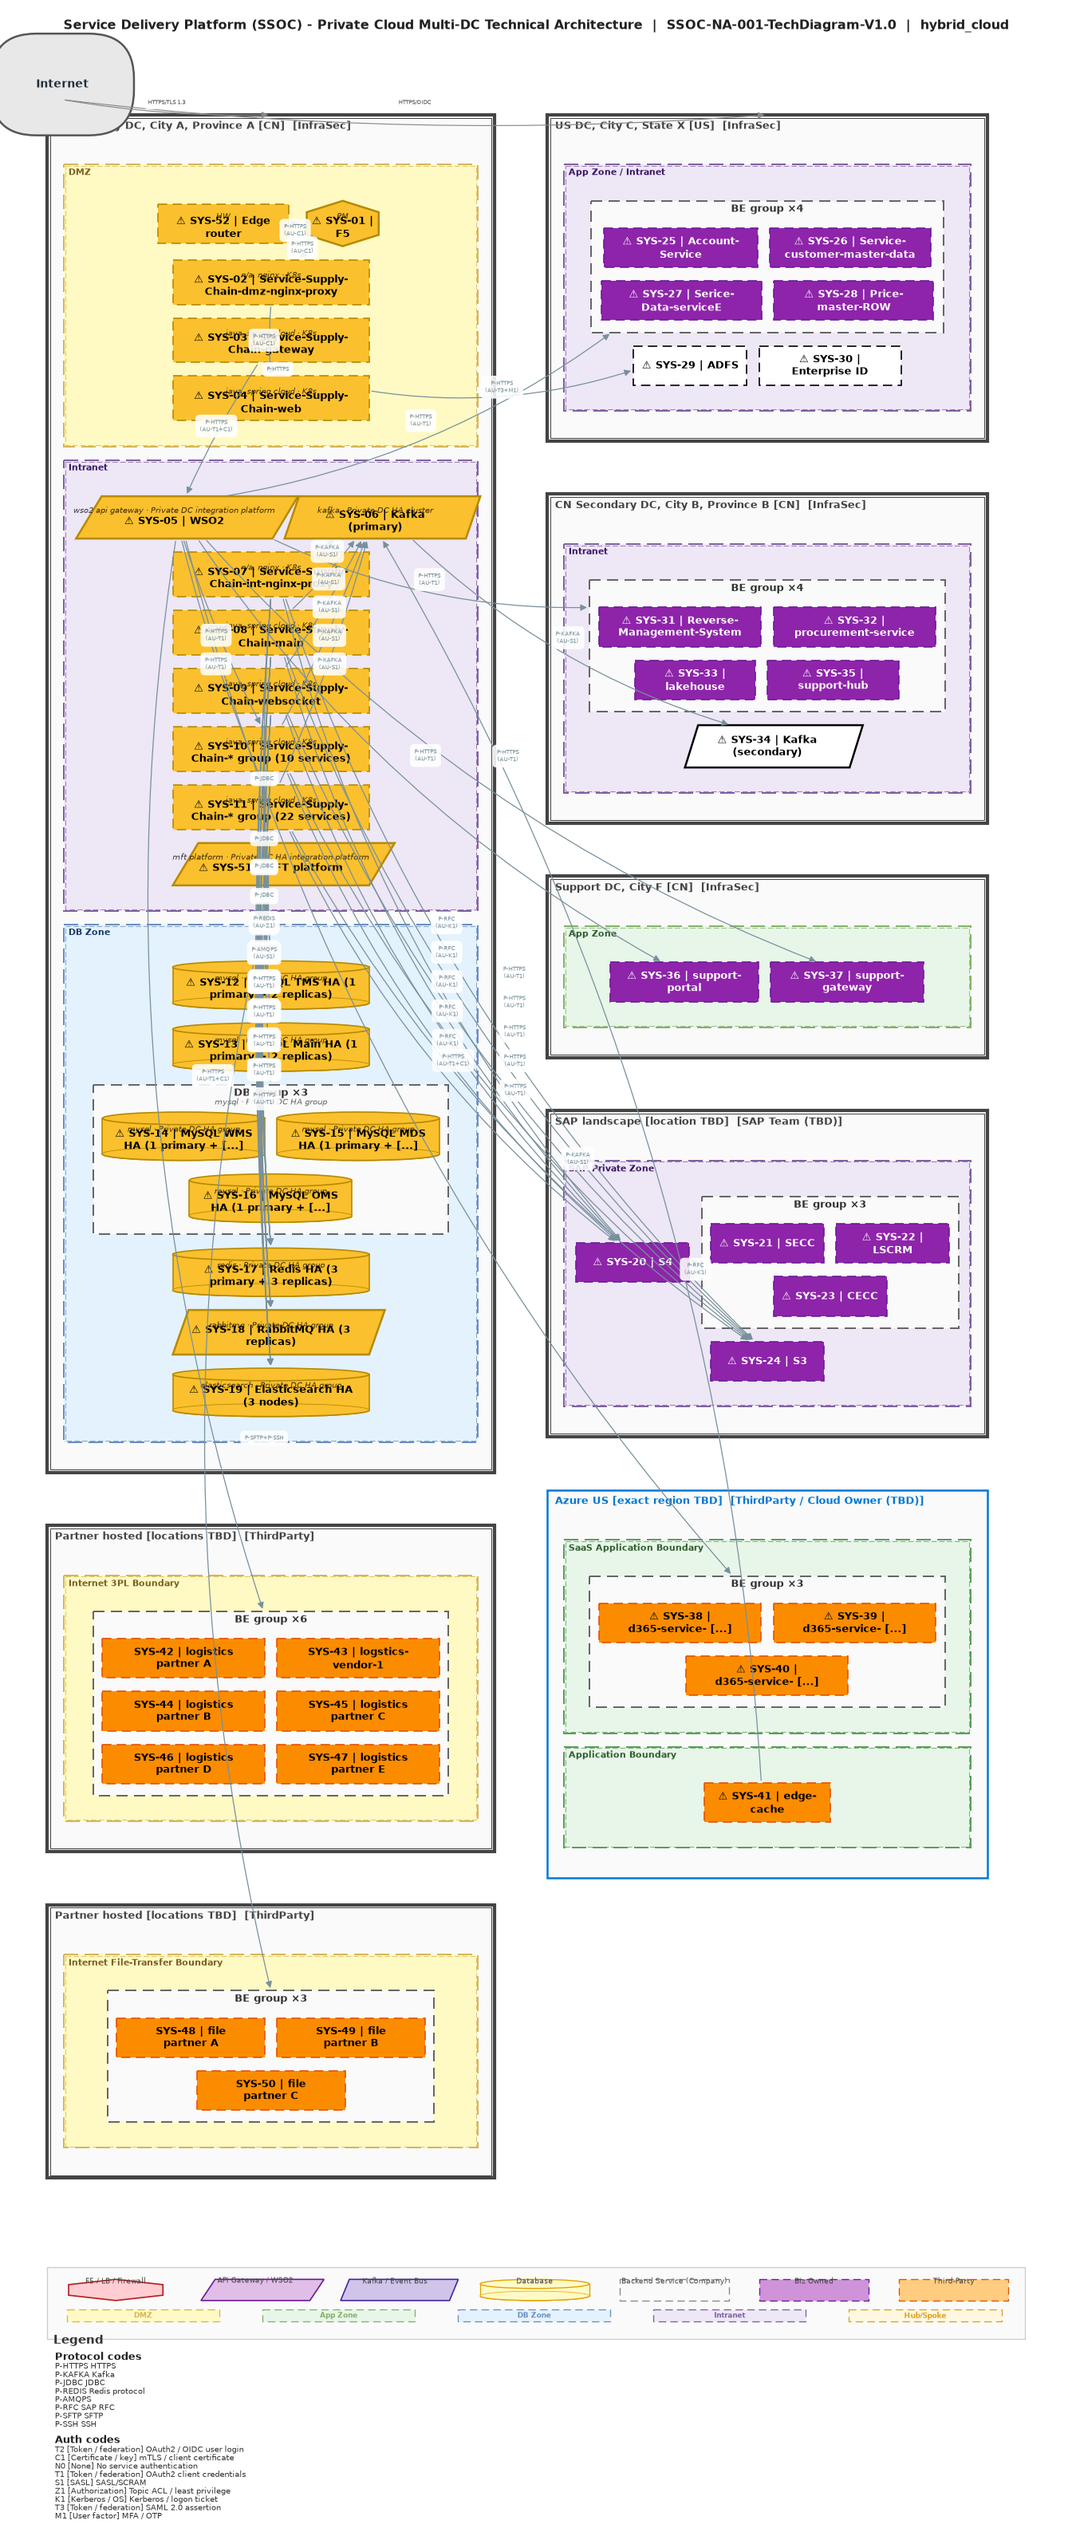
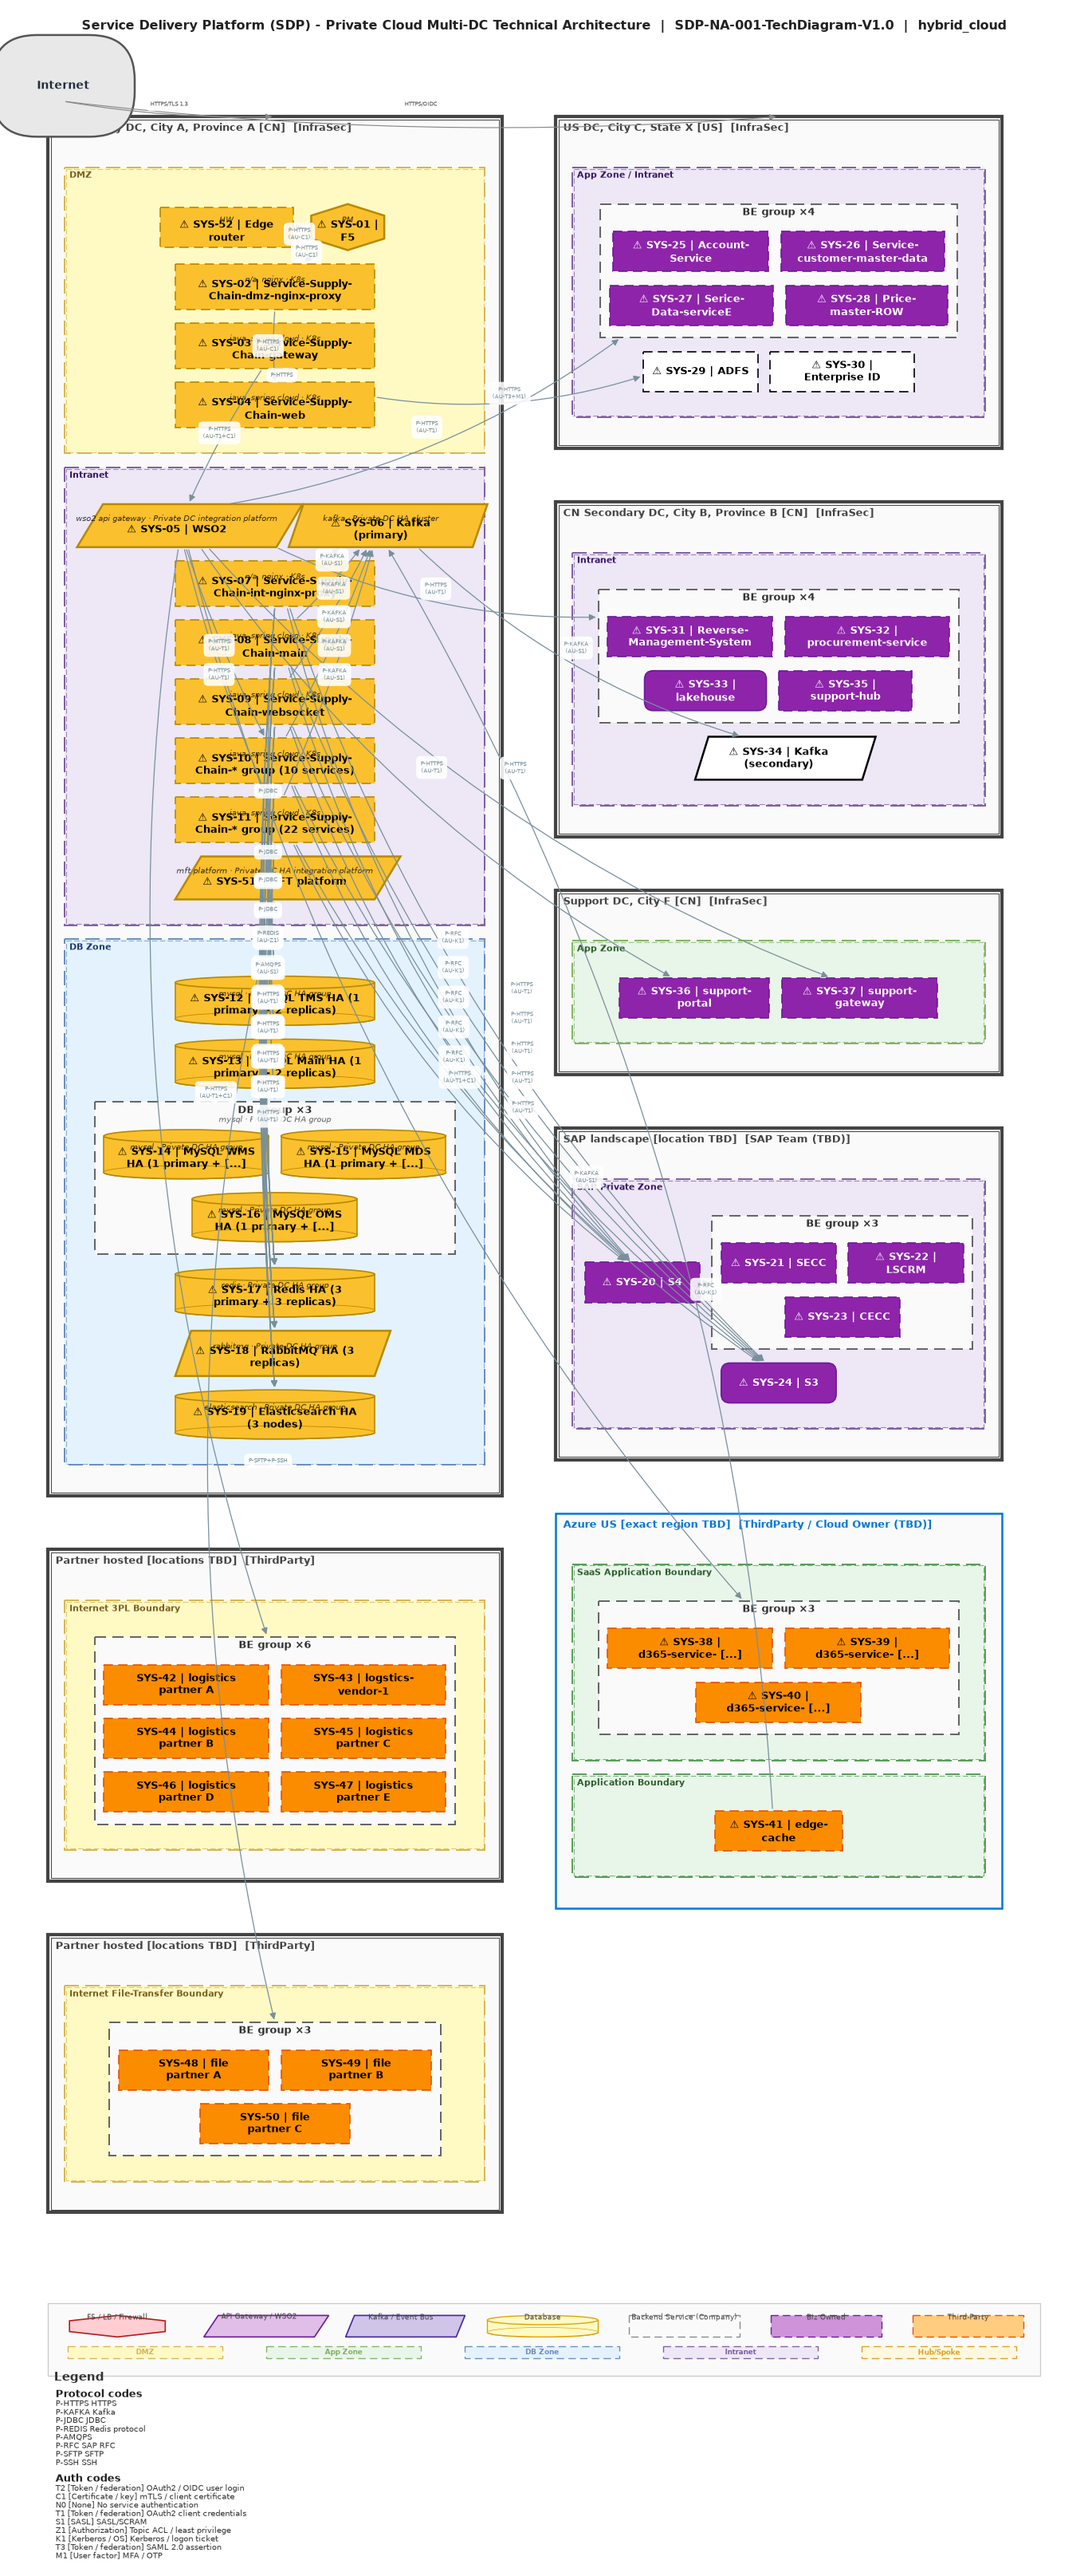
chore: rename the example 04 platform acronym to SDP
SSOC is an internal platform codename; it becomes SDP in every derived file,
including the recorded artifact ids, and the regenerated artwork.

diff --git a/examples/04-service-delivery-private-cloud/output/requirements/REQ.md b/examples/04-service-delivery-private-cloud/output/requirements/REQ.md
@@ -1,11 +1,11 @@
-# Requirements Document - Service Delivery Platform (SSOC), NA Migration
+# Requirements Document - Service Delivery Platform (SDP), NA Migration
 **Version**: 1.0 Draft | **Date**: 2026-09-14 | **Author**: ArchHarness
-**Project ID**: SSOC-NA-001 | **Classification**: Acme Confidential
-**Scope**: E2E modification. SSOC is the modified platform; connected enterprise, SaaS, identity, and partner systems are existing black boxes whose integration boundaries are in scope.
+**Project ID**: SDP-NA-001 | **Classification**: Acme Confidential
+**Scope**: E2E modification. SDP is the modified platform; connected enterprise, SaaS, identity, and partner systems are existing black boxes whose integration boundaries are in scope.
 
 ## 1. Project Overview
 
-SSOC is the service supply-chain operations platform, comprising approximately 40 Java and Spring Cloud microservices. The program extends the existing platform to serve North America while retaining the primary deployment in the CN primary data center and integrating four private data centers, Azure-hosted satellite systems, SAP, and external logistics partners.
+SDP is the service supply-chain operations platform, comprising approximately 40 Java and Spring Cloud microservices. The program extends the existing platform to serve North America while retaining the primary deployment in the CN primary data center and integrating four private data centers, Azure-hosted satellite systems, SAP, and external logistics partners.
 
 All names below are the stable document names defined by `input/systems-registry.md`. The corresponding `SYS-nn` identifiers remain authoritative.
 
@@ -13,9 +13,9 @@ All names below are the stable document names defined by `input/systems-registry
 
 | App | Type | New/Existing | Owner | Scope |
 |-----|------|--------------|-------|-------|
-| SYS-01 F5; SYS-02 Service-Supply-Chain-dmz-nginx-proxy; SYS-03 Service-Supply-Chain-gateway; SYS-04 Service-Supply-Chain-web | SSOC ingress and DMZ tier | Modified | InfraSec / TBD business owner | Full deployment and integration boundary |
-| SYS-05 WSO2; SYS-06 Kafka (primary); SYS-07 Service-Supply-Chain-int-nginx-proxy; SYS-08 Service-Supply-Chain-main; SYS-09 Service-Supply-Chain-websocket; SYS-10 Service-Supply-Chain-* group (10 services); SYS-11 Service-Supply-Chain-* group (22 services) | SSOC integration and application tier | Modified | InfraSec / TBD business owner | Full deployment and integration boundary |
-| SYS-12 MySQL TMS; SYS-13 MySQL Main; SYS-14 MySQL WMS; SYS-15 MySQL MDS; SYS-16 MySQL OMS; SYS-17 Redis HA; SYS-18 RabbitMQ HA; SYS-19 Elasticsearch HA | SSOC persistence tier | Modified | InfraSec / TBD business owner | Full deployment and integration boundary |
+| SYS-01 F5; SYS-02 Service-Supply-Chain-dmz-nginx-proxy; SYS-03 Service-Supply-Chain-gateway; SYS-04 Service-Supply-Chain-web | SDP ingress and DMZ tier | Modified | InfraSec / TBD business owner | Full deployment and integration boundary |
+| SYS-05 WSO2; SYS-06 Kafka (primary); SYS-07 Service-Supply-Chain-int-nginx-proxy; SYS-08 Service-Supply-Chain-main; SYS-09 Service-Supply-Chain-websocket; SYS-10 Service-Supply-Chain-* group (10 services); SYS-11 Service-Supply-Chain-* group (22 services) | SDP integration and application tier | Modified | InfraSec / TBD business owner | Full deployment and integration boundary |
+| SYS-12 MySQL TMS; SYS-13 MySQL Main; SYS-14 MySQL WMS; SYS-15 MySQL MDS; SYS-16 MySQL OMS; SYS-17 Redis HA; SYS-18 RabbitMQ HA; SYS-19 Elasticsearch HA | SDP persistence tier | Modified | InfraSec / TBD business owner | Full deployment and integration boundary |
 | SYS-20 S4; SYS-21 SECC; SYS-22 LSCRM; SYS-23 CECC; SYS-24 S3 | SAP landscape | Existing | TBD | Black-box boundary only |
 | SYS-25 Account-Service; SYS-26 Service-customer-master-data; SYS-27 Serice-Data-serviceE; SYS-28 Price-master-ROW | US satellite applications | Existing | TBD | Black-box boundary only |
 | SYS-29 ADFS; SYS-30 Enterprise ID | Identity services | Existing | InfraSec / TBD | Authentication boundary only |
@@ -172,12 +172,12 @@ SYS-10 members are `rms`, `tms`, `oms`, `wms`, `mds`, `ips`, `autopilot`, `ves`,
 
 ## 11. Architecture Constraints
 
-- Private cloud is mandatory for the SSOC platform; Azure systems are existing satellites only.
-- The primary SSOC deployment remains in the CN Primary DC using separate DMZ, Intranet, and DB zones.
+- Private cloud is mandatory for the SDP platform; Azure systems are existing satellites only.
+- The primary SDP deployment remains in the CN Primary DC using separate DMZ, Intranet, and DB zones.
 - All cross-application API traffic must traverse SYS-05 WSO2; event traffic must traverse SYS-06 Kafka. Direct application-to-application connections are prohibited.
 - Managed partner file transfer must traverse SYS-51 MFT platform.
 - SAP SYS-20 through SYS-23 may be reached only by RFC from the Intranet zone and must not be exposed to the DMZ.
-- The DB Zone is reachable only from SSOC Intranet services, and each persistence service uses the stated HA topology.
+- The DB Zone is reachable only from SDP Intranet services, and each persistence service uses the stated HA topology.
 - External 3PL and file-transfer traffic must terminate at SYS-01 in the DMZ and must never connect directly to the Intranet.
 - TLS 1.2 or later is required for all applicable traffic. Equivalent encrypted transport must be defined for non-TLS protocols.
 - Credentials must not be hardcoded. Workload database credentials are stored in Kubernetes Secrets.

diff --git a/examples/README.md b/examples/README.md
@@ -35,7 +35,7 @@ Every file outside `systems-registry.md` — including `README.md` and
 | 01 | `01-ecommerce-azure` | E-commerce platform network | Azure multi-region Hub-Spoke + ExpressRoute | req/v1 — rebuild pending (source diagram quality is poor) |
 | 02 | `02-ai-agent-hybrid` | Data Agent platform (GDA) | Private DC + Azure hybrid | req/v1 — rebuild pending |
 | 03 | `03-order-query-aws-hybrid` | Order query over EDW data | AWS VPC (3-tier) + 4 private DCs | req/v1 — rebuild pending |
-| 04 | `04-service-delivery-private-cloud` | Service delivery platform (SSOC) | Private cloud, 4 DCs + Azure | req/v1 — rebuild pending |
+| 04 | `04-service-delivery-private-cloud` | Service delivery platform (SDP) | Private cloud, 4 DCs + Azure | req/v1 — rebuild pending |
 | 05 | `05-supply-chain-order-private-cloud` | Supply-chain order platform (OSP) | Private cloud active-active CN+NA | req/v2 authored — diagram pending |
 | 06 | `06-factory-mes-industrial` | **Factory MES (PlantMES)** | Plant edge + central DCs | **req/v2 complete — worked reference** |
 | 07 | `07-finance-core-banking` | Core banking / payments | Private cloud, two-site-three-center | input pending |

diff --git a/examples/04-service-delivery-private-cloud/output/validation/validation-report.md b/examples/04-service-delivery-private-cloud/output/validation/validation-report.md
@@ -4,7 +4,7 @@
 
 | Field | Value |
 |---|---:|
-| Project | Service Delivery Platform (SSOC) |
+| Project | Service Delivery Platform (SDP) |
 | Platform detected | Mixed: private cloud with Azure satellites |
 | Score | **4.32 / 10.00** |
 | Must fix | **22** |
@@ -85,7 +85,7 @@ The main web path follows `Internet -> SYS-52 -> SYS-01 F5 -> SYS-02`, and SYS-0
 
 ### Mediation And Boundaries
 
-WSO2, Kafka, and MFT platform are independent nodes in the CN primary Intranet. Most remote APIs and files use those mediators. The ten direct SSOC-to-SAP flows bypass mediation, while SAP and both 3PL boundary locations remain TBD. The 3PL paths are outbound from WSO2; required inbound termination at F5 is not demonstrated.
+WSO2, Kafka, and MFT platform are independent nodes in the CN primary Intranet. Most remote APIs and files use those mediators. The ten direct SDP-to-SAP flows bypass mediation, while SAP and both 3PL boundary locations remain TBD. The 3PL paths are outbound from WSO2; required inbound termination at F5 is not demonstrated.
 
 ### Authentication And Secrets
 

diff --git a/examples/04-service-delivery-private-cloud/input/documents/requirements.md b/examples/04-service-delivery-private-cloud/input/documents/requirements.md
@@ -1,5 +1,5 @@
-# Requirements Document — Service Delivery Platform (SSOC, NA Migration)
-**Version**: 1.0  |  **Project ID**: SSOC-NA-001  |  **Classification**: Acme Confidential
+# Requirements Document — Service Delivery Platform (SDP, NA Migration)
+**Version**: 1.0  |  **Project ID**: SDP-NA-001  |  **Classification**: Acme Confidential
 
 > System codes SYS-01..SYS-52 resolve via `input/systems-registry.md`.
 
@@ -9,7 +9,7 @@
 
 ## 1. Project Overview
 
-SSOC is the service supply-chain operations platform (~40 Java/SpringCloud
+SDP is the service supply-chain operations platform (~40 Java/SpringCloud
 microservices). This program migrates/extends it to serve NA while keeping
 the primary deployment in the CN primary DC. The platform integrates with
 SAP, three satellite DCs, Azure-hosted systems, and external 3PL partners.

diff --git a/examples/04-service-delivery-private-cloud/README.md b/examples/04-service-delivery-private-cloud/README.md
@@ -1,4 +1,4 @@
-# Example 4 — Service Delivery Platform (SSOC): Private Cloud Multi-DC
+# Example 4 — Service Delivery Platform (SDP): Private Cloud Multi-DC
 
 Reverse-engineered from a real service-delivery architecture diagram
 (restricted and intentionally not scrubbed). The most complete demonstration
@@ -14,7 +14,7 @@ SYS-05/SYS-06-only integration, SAP RFC, SYS-51 MFT, 3PL EDI/SFTP, and a
 
 ## Scenario
 
-**SSOC** is the service supply-chain operations platform (~40 Java/SpringCloud
+**SDP** is the service supply-chain operations platform (~40 Java/SpringCloud
 microservices) being migrated to serve NA. It runs in the CN
 primary DC and integrates with satellite systems in three other DCs, Azure,
 SAP, and external 3PL partners.

diff --git a/examples/04-service-delivery-private-cloud/input/prompt.md b/examples/04-service-delivery-private-cloud/input/prompt.md
@@ -1,11 +1,11 @@
-# One-shot prompt — Service Delivery Platform (SSOC)
+# One-shot prompt — Service Delivery Platform (SDP)
 
 > Codes-only prompt. Every system/service is referenced by `SYS-nn`,
 > resolved through `input/systems-registry.md` (include that registry as
 > context when supplying this prompt to an agent). No literal system names
 > appear outside the registry.
 
-Design the technical architecture for **SSOC**, our service supply-chain
+Design the technical architecture for **SDP**, our service supply-chain
 operations platform, as it migrates to serve NA. Private cloud only, four
 DCs, ~40 Java/SpringCloud microservices.
 

diff --git a/examples/04-service-delivery-private-cloud/input/diagrams/README.md b/examples/04-service-delivery-private-cloud/input/diagrams/README.md
@@ -1,5 +1,5 @@
 Place the original reference architecture image here as
-`reference-architecture.png` (the SSOC private-cloud multi-DC diagram).
+`reference-architecture.png` (the SDP private-cloud multi-DC diagram).
 
 This image is intentionally not scrubbed and must be handled as restricted
 input. Do not use it as a source for publishable names.

diff --git a/examples/04-service-delivery-private-cloud/input/systems-registry.md b/examples/04-service-delivery-private-cloud/input/systems-registry.md
@@ -1,4 +1,4 @@
-# Systems Registry — Service Delivery Platform (SSOC)
+# Systems Registry — Service Delivery Platform (SDP)
 
 Single source of truth for every system / service name in this example.
 
